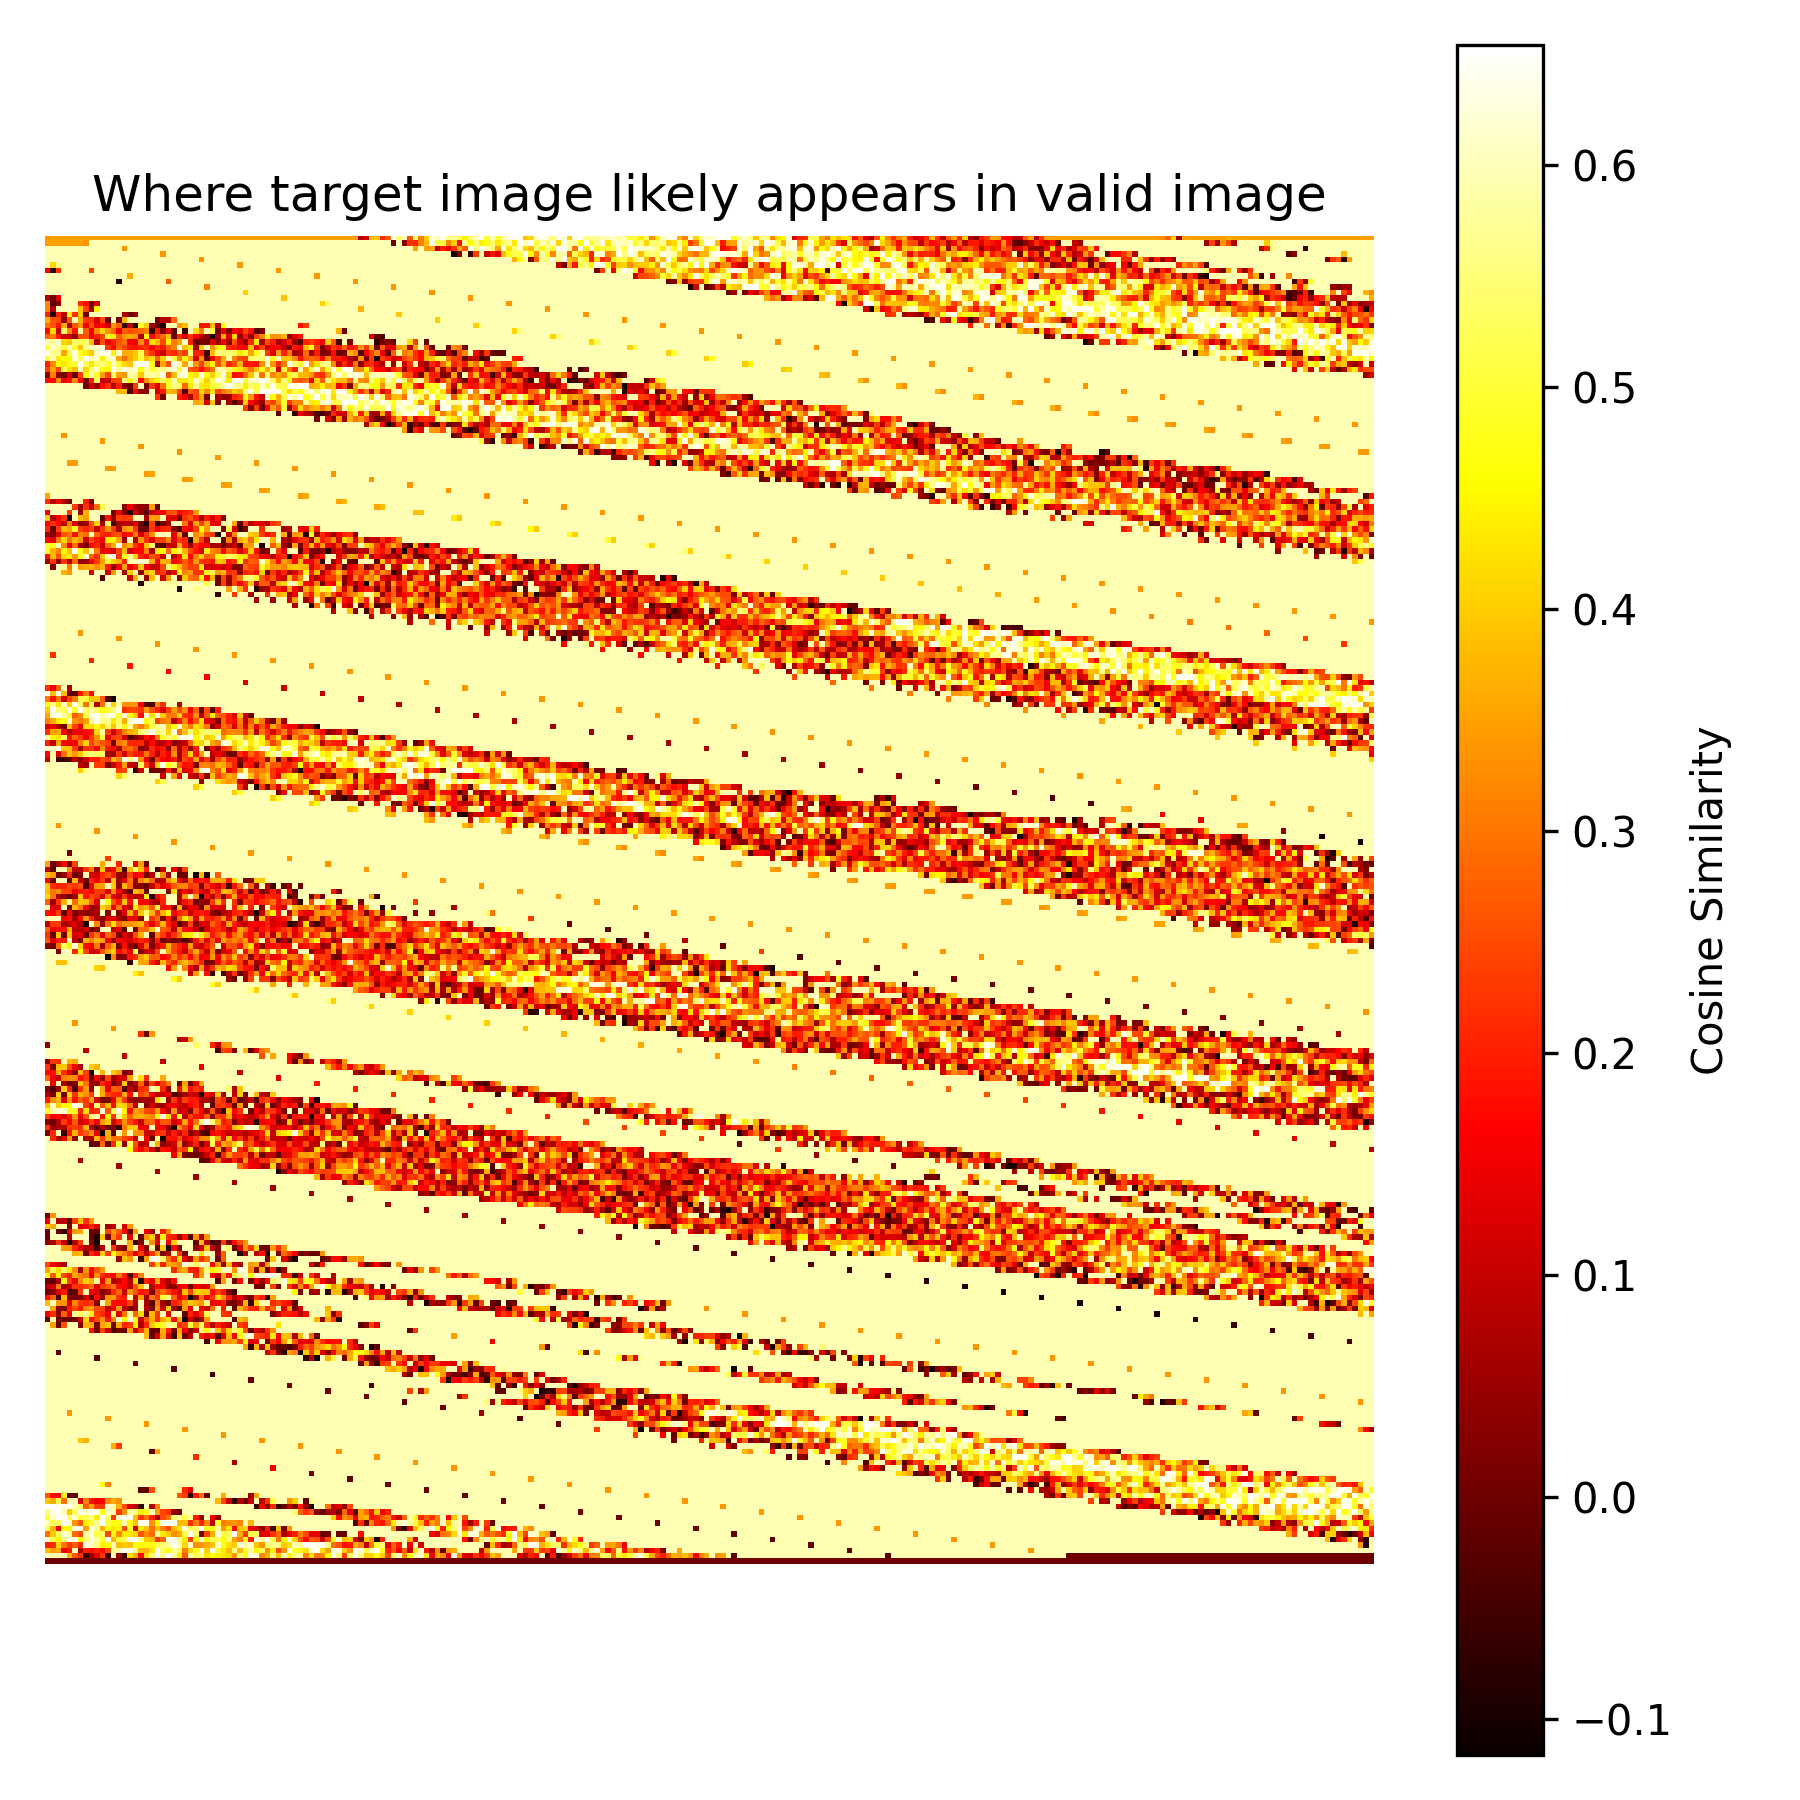
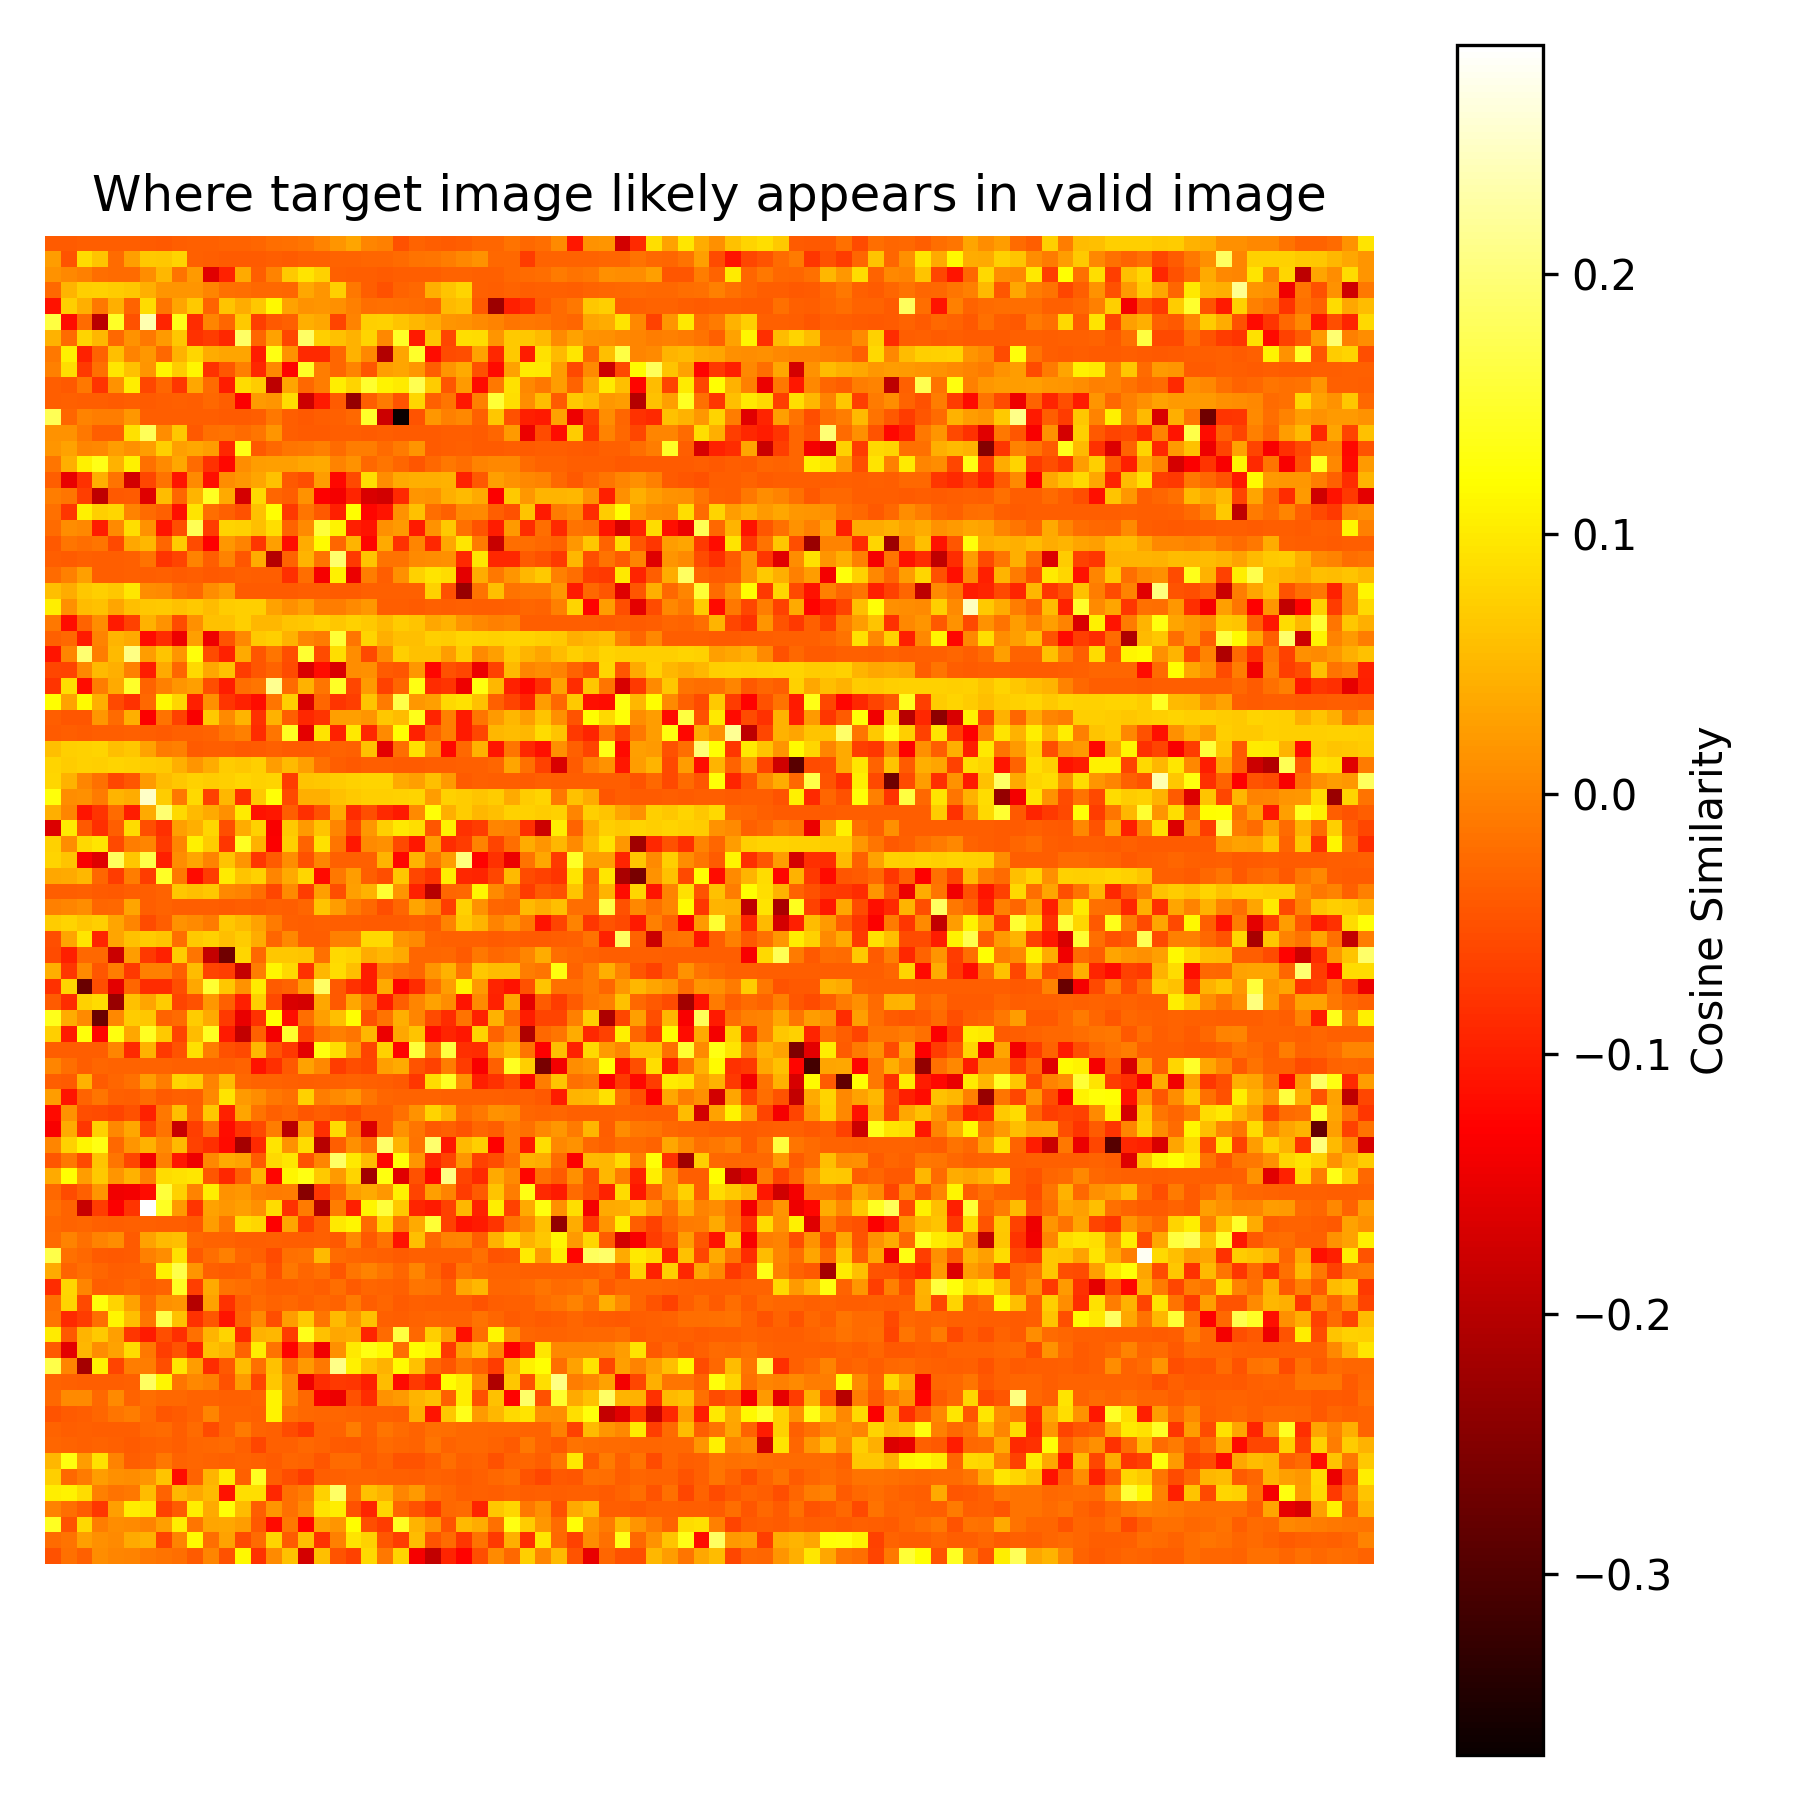
result

diff --git a/data.py b/data.py
@@ -198,7 +198,7 @@ class LoadDataset(Dataset):
 class VaildStep:
     def valid_patchs(mode='img', device='cuda', patch_size: int=64, window_size=9, num_bins=32):
         (img1, profile1) = read_img(K3.main_dir1, K3.jgw_name1, K3.b_tif_name1);
-        (img2, profile2) = read_img(K3.main_dir1, K3.jgw_name1, K5.r_tif_name1);
+        (img2, profile2) = read_img(K3.main_dir1, K3.jgw_name1, K3.r_tif_name1);
         target_patches = VaildStep._preprocess(img1, mode, device, patch_size, window_size, num_bins)
         vaild_patches = VaildStep._preprocess(img2, mode, device, patch_size, window_size, num_bins)
 

diff --git a/infer.py b/infer.py
@@ -40,8 +40,8 @@ def cosine_similarity(target_embs, vaild_embs, batch_size=1000):
     
     return similarities
 
-#mode = 'img'
-mode = 'entropy'
+mode = 'img'
+#mode = 'entropy'
 model_path = "../checkpoints/img_300.pt"
 patch_size = 64 
 emb_dim = 256
